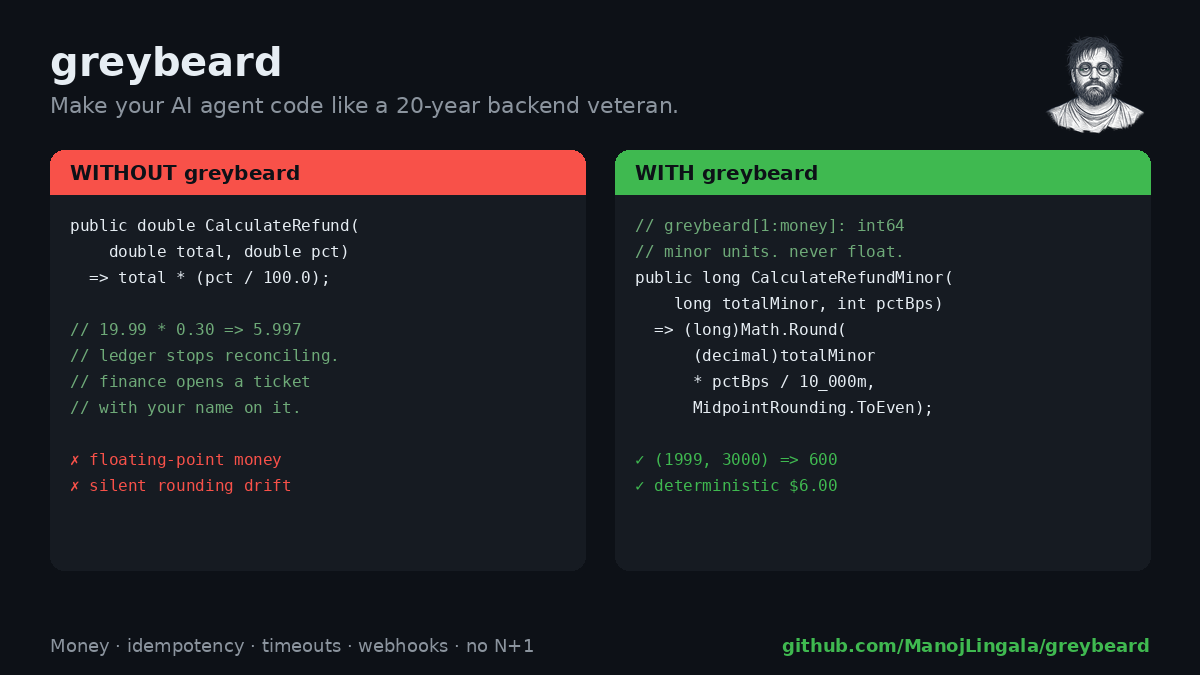
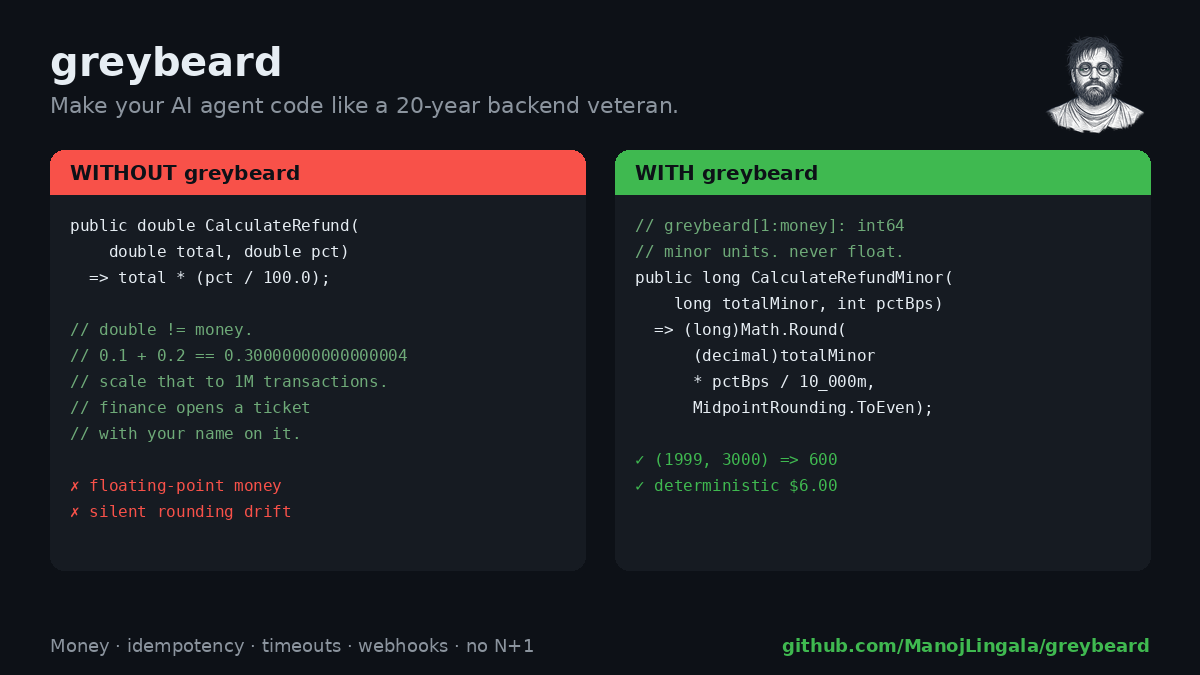
Sharpen social card hook + finalize X launch copy
- WITHOUT side now shows canonical 0.1 + 0.2 == 0.30000000000000004 float meme
- Add 'X launch - final cut': single tweet + 6-tweet thread + posting tips

Changed region(s): [[0.0617, 0.4667, 0.3392, 0.7778]]

diff --git a/benchmarks/make_social.py b/benchmarks/make_social.py
@@ -65,8 +65,9 @@ left = [
     ("    double total, double pct)", FG),
     ("  => total * (pct / 100.0);", FG),
     ("", FG),
-    ("// 19.99 * 0.30 => 5.997", COMMENT),
-    ("// ledger stops reconciling.", COMMENT),
+    ("// double != money.", COMMENT),
+    ("// 0.1 + 0.2 == 0.30000000000000004", COMMENT),
+    ("// scale that to 1M transactions.", COMMENT),
     ("// finance opens a ticket", COMMENT),
     ("// with your name on it.", COMMENT),
     ("", FG),

diff --git a/LAUNCH.md b/LAUNCH.md
@@ -1,10 +1,69 @@
 # Launch copy
 
 Attach `assets/social-before-after.png` to the tweet (and to the HN post as the first comment image if you want).
+The card's WITHOUT side now shows the canonical `0.1 + 0.2 == 0.30000000000000004` float meme, so it matches the X copy below.
 
 ---
 
-## Launch tweet (single)
+## X launch — final cut (use this)
+
+### Single high-impact tweet (post this first, with the image)
+
+> Most "money bugs" aren't bugs. They're `double`.
+>
+> One floating-point multiplication. A million transactions. A ledger that no longer reconciles.
+>
+> I built **greybeard** so your AI agent stops writing junior-dev code.
+>
+> github.com/ManojLingala/greybeard
+
+*(attach `assets/social-before-after.png`)*
+
+### Follow-up thread (reply to your own tweet 1)
+
+**2/ — the pain**
+> Every backend veteran has lived this:
+> → refund calc uses `double`
+> → QA passes. tests pass.
+> → 6 months later finance emails: "the ledger is off by $1,847.23"
+> → you spend a week bisecting commits
+> The bug was written on day one.
+
+**3/ — the lesson**
+> Senior backend habits AI agents skip:
+> • money in minor units (`long`), never `double`
+> • idempotency keys on every mutation
+> • timeouts on every external call
+> • webhooks with retries + signatures (in & out)
+> • no N+1 queries, ever
+> greybeard puts them in your prompt.
+
+**4/ — how it works**
+> greybeard is one portable SKILL.md that bolts onto Claude Code, Codex, Antigravity, Cursor or Copilot.
+> Before writing backend code the agent walks a ladder — money → mutation → external call → concurrency → reads → partial failure → observability — and stops at the first rung that applies.
+> Your agent codes like it's been burned before.
+
+**5/ — proof, honestly**
+> Scored by a deterministic, code-based grader — not an LLM judge, so it can't drift.
+> No-skill baseline ships bugs on 7/7 tasks. greybeard: zero.
+> Validate the grader yourself, no API keys: `node benchmarks/selftest.js`
+
+**6/ — CTA**
+> Free. Open source. MIT.
+> ⭐ github.com/ManojLingala/greybeard
+> If you've ever been the name on a finance ticket — this is for you.
+
+### Posting tips
+
+- Post 9–11 AM ET, Tue/Wed (peak dev-Twitter).
+- Reply to your own tweet 1 with tweet 2 within seconds — early author replies get boosted.
+- Reply to every comment in the first 30–60 min.
+- Pin the thread to your profile.
+- Tag 1–2 aligned dev-tool accounts only if it reads naturally; don't spam.
+
+---
+
+## Launch tweet (single — earlier draft)
 
 > Meet **greybeard** — the skill that makes your AI agent code like a 20-year backend veteran.
 >
